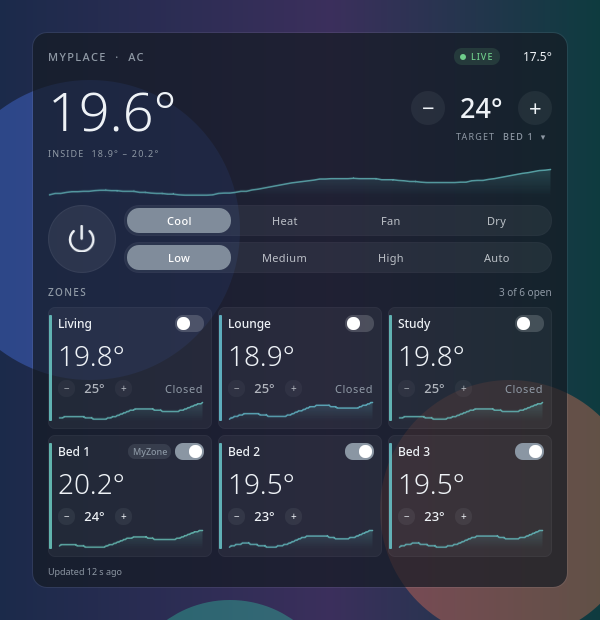
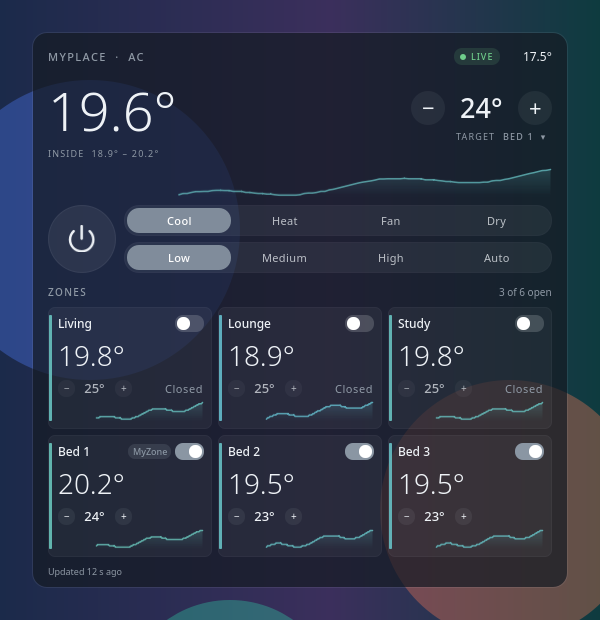
feat: persist temperature history across restarts
Samples are timestamped and mirrored to Plasma's offline storage
(SQLite), keyed by tablet, aircon, series and minute. On start the
last four hours load back; sparklines place points by time and break
at gaps instead of bridging them.

diff --git a/contents/ui/Sparkline.qml b/contents/ui/Sparkline.qml
@@ -1,14 +1,18 @@
 import QtQuick
 
-// A small temperature trace. `points` is an array of numbers (oldest first);
-// the line is scaled to its own min/max, with a floor so a flat reading still
-// draws as a calm line instead of noise.
+// A small temperature trace. `points` is [{t, v}] oldest first, placed by time
+// across `windowMs` ending at the newest point. Gaps longer than `gapMs` (the
+// PC was off, or the tablet unreachable) break the line rather than bridging
+// it. The scale follows the data's own min/max, with a floor so a flat
+// reading draws as a calm line instead of noise.
 Canvas {
     id: spark
     property var points: []
     property color color: "white"
     property real lineWidth: 1.5
     property real minSpan: 1.0
+    property double windowMs: 4 * 3600 * 1000
+    property double gapMs: 5 * 60 * 1000
 
     onPointsChanged: requestPaint()
     onColorChanged: requestPaint()
@@ -21,33 +25,58 @@ Canvas {
         const pts = points || [];
         if (pts.length < 2 || width <= 0 || height <= 0)
             return;
-        let lo = Math.min.apply(null, pts), hi = Math.max.apply(null, pts);
+        const values = pts.map(p => p.v);
+        let lo = Math.min.apply(null, values), hi = Math.max.apply(null, values);
         if (hi - lo < minSpan) {
             const mid = (hi + lo) / 2;
             lo = mid - minSpan / 2;
             hi = mid + minSpan / 2;
         }
         const pad = lineWidth;
-        const x = i => pad + (width - 2 * pad) * i / (pts.length - 1);
+        const end = pts[pts.length - 1].t;
+        const start = end - windowMs;
+        const x = t => pad + (width - 2 * pad) * Math.max(0, t - start) / windowMs;
         const y = v => height - pad - (height - 2 * pad) * (v - lo) / (hi - lo);
 
-        ctx.beginPath();
-        ctx.moveTo(x(0), y(pts[0]));
-        for (let i = 1; i < pts.length; i++)
-            ctx.lineTo(x(i), y(pts[i]));
+        // Split into runs at gaps.
+        const runs = [];
+        let run = [];
+        for (let i = 0; i < pts.length; i++) {
+            if (run.length && pts[i].t - run[run.length - 1].t > gapMs) {
+                runs.push(run);
+                run = [];
+            }
+            run.push(pts[i]);
+        }
+        runs.push(run);
+
+        const grad = ctx.createLinearGradient(0, 0, 0, height);
+        grad.addColorStop(0, Qt.alpha(color, 0.28));
+        grad.addColorStop(1, Qt.alpha(color, 0));
         ctx.lineWidth = lineWidth;
         ctx.lineJoin = "round";
         ctx.lineCap = "round";
         ctx.strokeStyle = color;
-        ctx.stroke();
-
-        ctx.lineTo(x(pts.length - 1), height);
-        ctx.lineTo(x(0), height);
-        ctx.closePath();
-        const grad = ctx.createLinearGradient(0, 0, 0, height);
-        grad.addColorStop(0, Qt.alpha(color, 0.28));
-        grad.addColorStop(1, Qt.alpha(color, 0));
         ctx.fillStyle = grad;
-        ctx.fill();
+
+        for (const r of runs) {
+            if (r.length === 1) {
+                ctx.beginPath();
+                ctx.arc(x(r[0].t), y(r[0].v), lineWidth, 0, 2 * Math.PI);
+                ctx.fillStyle = color;
+                ctx.fill();
+                ctx.fillStyle = grad;
+                continue;
+            }
+            ctx.beginPath();
+            ctx.moveTo(x(r[0].t), y(r[0].v));
+            for (let i = 1; i < r.length; i++)
+                ctx.lineTo(x(r[i].t), y(r[i].v));
+            ctx.stroke();
+            ctx.lineTo(x(r[r.length - 1].t), height);
+            ctx.lineTo(x(r[0].t), height);
+            ctx.closePath();
+            ctx.fill();
+        }
     }
 }

diff --git a/contents/ui/Client.qml b/contents/ui/Client.qml
@@ -32,7 +32,10 @@ Item {
     readonly property bool online: lastUpdated > 0 && failures < offlineAfter
     readonly property bool stale: lastUpdated > 0 && failures > 0
     property string lastError: ""
+    // {series: [{t, v}]}; "house" is the inside average.
     property var history: ({})
+    // Optional persistence: {load(scope, since), append(scope, t, values, before)}.
+    property var store: null
 
     signal commandFailed(string reason)
 
@@ -158,6 +161,13 @@ Item {
         view = v;
     }
 
+    readonly property double historyWindowMs: historySeconds * historyLength * 1000
+    // A trace breaks where samples are further apart than this.
+    readonly property double historyGapMs: Math.max(historySeconds, pollSeconds) * 3000
+    readonly property string historyScope: MyPlace.baseUrl(host) + "/" + acKey
+
+    // One sample per series every `historySeconds`, as {t, v}, kept for
+    // `historyLength` intervals and mirrored to `store` when one is set.
     function _record() {
         const now = clock();
         if (_lastSample > 0 && now - _lastSample < historySeconds * 1000)
@@ -165,21 +175,43 @@ Item {
         const ac = snapshot.aircons[acKey];
         if (!ac)
             return;
+        // Aligned to the interval so restarts and other widgets reuse the slot.
+        const t = Math.floor(now / (historySeconds * 1000)) * historySeconds * 1000;
         _lastSample = now;
-        const next = {};
-        const push = (key, value) => {
-            const series = (history[key] || []).concat([value]);
-            next[key] = series.slice(Math.max(0, series.length - historyLength));
-        };
+        const values = {};
         const zones = MyPlace.sortedZones(ac);
         for (const z of zones) {
             if (z.hasSensor && !z.sensorError)
-                push(z.key, z.measuredTemp);
+                values[z.key] = z.measuredTemp;
         }
         const house = MyPlace.houseStats(zones);
         if (house.count > 0)
-            push("house", house.average);
+            values.house = Math.round(house.average * 100) / 100;
+        const cutoff = t - historyWindowMs;
+        const next = {};
+        for (const key in history) {
+            const kept = history[key].filter(p => p.t > cutoff && p.t !== t);
+            if (kept.length)
+                next[key] = kept;
+        }
+        for (const key in values)
+            next[key] = (next[key] || []).concat([{ t: t, v: values[key] }]);
         history = next;
+        if (store)
+            store.append(historyScope, t, values, cutoff);
+    }
+
+    function _loadHistory() {
+        history = {};
+        _lastSample = 0;
+        if (!store || !configured)
+            return;
+        const loaded = store.load(historyScope, clock() - historyWindowMs);
+        let last = 0;
+        for (const key in loaded)
+            last = Math.max(last, loaded[key][loaded[key].length - 1].t);
+        history = loaded;
+        _lastSample = last;
     }
 
     function defaultTransport(url, timeout, done) {
@@ -245,11 +277,14 @@ Item {
         view = null;
         lastUpdated = 0;
         failures = 0;
-        history = {};
-        _lastSample = 0;
         _pending = {};
+        _loadHistory();
         if (configured && active)
             pollTimer.restart();
     }
-    onAcKeyChanged: _rebuild()
+    onAcKeyChanged: {
+        _loadHistory();
+        _rebuild();
+    }
+    onStoreChanged: _loadHistory()
 }

diff --git a/tests/tst_history.qml b/tests/tst_history.qml
@@ -1,0 +1,78 @@
+import QtQuick
+import QtTest
+import "../contents/ui" as Deck
+
+TestCase {
+    id: suite
+    name: "History"
+    property string fixture: ""
+    property double fakeNow: Date.UTC(2026, 9, 16, 8, 0)
+
+    function i18n(text) { return text; }
+
+    FakeTablet { id: tablet }
+    Deck.HistoryStore { id: store; databaseName: "climatedeck-test" }
+    Component {
+        id: clientComponent
+        Deck.Client {
+            active: false
+            host: "192.168.1.50"
+            transport: tablet.transport
+            clock: function() { return suite.fakeNow; }
+        }
+    }
+
+    function initTestCase() {
+        const xhr = new XMLHttpRequest();
+        xhr.onreadystatechange = function() { if (xhr.readyState === XMLHttpRequest.DONE) suite.fixture = xhr.responseText; };
+        xhr.open("GET", Qt.resolvedUrl("fixtures/system.json"));
+        xhr.send();
+        tryVerify(() => fixture.length > 0);
+        tablet.load(fixture);
+    }
+
+    function test_store_roundtrip() {
+        store.append("a", 1000, { z01: 20.5, house: 21 }, 0);
+        store.append("a", 1000, { z01: 20.7 }, 0); // same slot replaces
+        store.append("a", 2000, { z01: 21 }, 0);
+        store.append("b", 2000, { z01: 99 }, 0);
+        const loaded = store.load("a", 0);
+        compare(JSON.stringify(loaded.z01), '[{"t":1000,"v":20.7},{"t":2000,"v":21}]');
+        compare(loaded.house.length, 1);
+        compare(store.load("a", 1500).z01.length, 1);
+        store.append("a", 3000, { z01: 22 }, 2500); // prunes everything before 2500
+        compare(store.load("a", 0).z01.length, 1);
+        compare(store.load("b", 0).z01, undefined);
+    }
+
+    function test_history_survives_restart() {
+        const first = createTemporaryObject(clientComponent, suite, { store: store });
+        for (let i = 0; i < 5; i++) {
+            first.poll();
+            fakeNow += 60000;
+        }
+        compare(first.history.z01.length, 5);
+        first.destroy();
+
+        fakeNow += 10 * 60000; // Plasma restarted ten minutes later
+        const second = createTemporaryObject(clientComponent, suite, { store: store });
+        compare(second.history.z01.length, 5);
+        compare(second.history.house.length, 5);
+        second.poll();
+        compare(second.history.z01.length, 6);
+        // The pause shows as a gap, not a bridged line.
+        const pts = second.history.z01;
+        verify(pts[5].t - pts[4].t > second.historyGapMs);
+    }
+
+    function test_old_samples_expire() {
+        const c = createTemporaryObject(clientComponent, suite, { store: store });
+        c.poll();
+        verify(c.history.z01.length > 0);
+        fakeNow += c.historyWindowMs + 60000;
+        const later = createTemporaryObject(clientComponent, suite, { store: store });
+        compare(later.history.z01, undefined);
+        later.poll();
+        compare(later.history.z01.length, 1);
+    }
+}

diff --git a/contents/ui/HistoryStore.qml b/contents/ui/HistoryStore.qml
@@ -1,0 +1,61 @@
+import QtQuick
+import QtQuick.LocalStorage
+
+// Keeps temperature samples in Plasma's offline storage (SQLite) so history
+// survives restarts. Rows are keyed by scope (tablet and aircon), series and
+// minute, so two widgets on the same tablet don't double up.
+QtObject {
+    id: store
+    property string databaseName: "io.github.xiahongze.climatedeck"
+    property var _db: null
+
+    function _open() {
+        if (_db)
+            return _db;
+        try {
+            _db = LocalStorage.openDatabaseSync(databaseName, "", "Climate Deck temperature history", 4000000);
+            _db.transaction(tx => tx.executeSql(
+                "CREATE TABLE IF NOT EXISTS samples (scope TEXT NOT NULL, series TEXT NOT NULL, t INTEGER NOT NULL, v REAL NOT NULL, PRIMARY KEY (scope, series, t))"));
+        } catch (e) {
+            console.warn("Climate Deck: history storage unavailable:", e);
+            _db = null;
+        }
+        return _db;
+    }
+
+    // Returns {series: [{t, v}, ...]} for samples at or after `since`.
+    function load(scope, since) {
+        const out = {};
+        const db = _open();
+        if (!db)
+            return out;
+        try {
+            db.readTransaction(tx => {
+                const rs = tx.executeSql("SELECT series, t, v FROM samples WHERE scope = ? AND t >= ? ORDER BY t", [scope, since]);
+                for (let i = 0; i < rs.rows.length; i++) {
+                    const row = rs.rows.item(i);
+                    (out[row.series] = out[row.series] || []).push({ t: row.t, v: row.v });
+                }
+            });
+        } catch (e) {
+            console.warn("Climate Deck: could not read history:", e);
+        }
+        return out;
+    }
+
+    // Stores one sample per series and drops anything older than `before`.
+    function append(scope, t, values, before) {
+        const db = _open();
+        if (!db)
+            return;
+        try {
+            db.transaction(tx => {
+                for (const series in values)
+                    tx.executeSql("INSERT OR REPLACE INTO samples (scope, series, t, v) VALUES (?, ?, ?, ?)", [scope, series, t, values[series]]);
+                tx.executeSql("DELETE FROM samples WHERE t < ?", [before]);
+            });
+        } catch (e) {
+            console.warn("Climate Deck: could not save history:", e);
+        }
+    }
+}

diff --git a/contents/ui/DeckView.qml b/contents/ui/DeckView.qml
@@ -352,6 +352,8 @@ Item {
                 Layout.preferredHeight: Kirigami.Units.gridUnit * 1.6
                 visible: root.showSparklines && (root.client.history.house || []).length > 1
                 points: root.client.history.house || []
+                windowMs: root.client.historyWindowMs
+                gapMs: root.client.historyGapMs
                 color: root.tempColor(root.house.average)
                 opacity: 0.8
             }
@@ -470,6 +472,8 @@ Item {
                         unitOn: root.unitOn
                         interactive: root.canControl
                         showSparkline: root.showSparklines
+                        windowMs: root.client.historyWindowMs
+                        gapMs: root.client.historyGapMs
                         onToggled: root.toggleZone(modelData)
                         onStepped: direction => root.stepZone(modelData, direction)
                     }

diff --git a/contents/ui/ZoneCard.qml b/contents/ui/ZoneCard.qml
@@ -13,6 +13,8 @@ Rectangle {
     property bool unitOn: false
     property bool interactive: true
     property bool showSparkline: true
+    property double windowMs: 4 * 3600 * 1000
+    property double gapMs: 5 * 60 * 1000
     signal toggled()
     signal stepped(int direction)
 
@@ -156,6 +158,8 @@ Rectangle {
             Layout.preferredHeight: Kirigami.Units.gridUnit * 1.1
             visible: card.showSparkline && card.hasSensor
             points: card.series
+            windowMs: card.windowMs
+            gapMs: card.gapMs
             color: card.tempColor
             opacity: 0.85
         }

diff --git a/contents/ui/main.qml b/contents/ui/main.qml
@@ -27,6 +27,7 @@ PlasmoidItem {
         host: Plasmoid.configuration.host
         acKey: Plasmoid.configuration.airconKey
         pollSeconds: Plasmoid.configuration.pollSeconds
+        store: HistoryStore {}
     }
 
     // Panels get a compact reading; the widget is designed for the desktop.

diff --git a/README.md b/README.md
@@ -29,7 +29,7 @@ While the unit runs, the deck takes on the mode's colour:
 
 Changes show immediately. Taps on − and + are batched into one command, and the widget re-reads the tablet a moment later to confirm. If the tablet stops answering, the last reading stays on screen, dimmed, and the controls lock until it is back.
 
-History is kept in memory: one sample a minute, four hours in total. It starts again when Plasma restarts.
+History is one sample a minute, kept for four hours. It is saved in Plasma's local storage (SQLite, under `~/.local/share/plasmashell/QML/OfflineStorage/`), so it survives Plasma restarts and reboots. Time the PC was off shows as a break in the line.
 
 ## Requirements
 

diff --git a/CHANGELOG.md b/CHANGELOG.md
@@ -2,6 +2,7 @@
 
 ## Unreleased
 
+- Temperature history is saved to local storage and survives restarts; gaps show as breaks in the trace.
 - MyZone picker under the target temperature; a closed zone is opened when chosen, as in the app.
 - Zone targets and dampers can be changed while the zone is closed.
 
